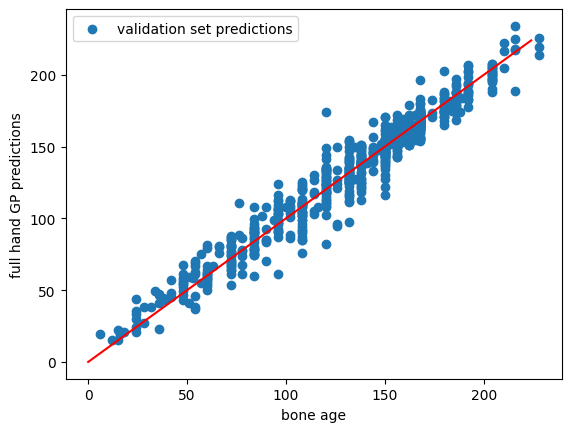
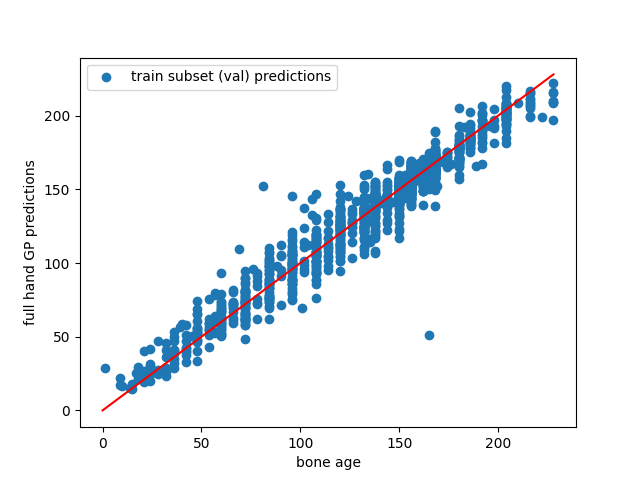
Inception working now!

diff --git a/fullhand_training_lghtng.py b/fullhand_training_lghtng.py
@@ -121,7 +121,8 @@ model = Inception()
 trainer = pl.Trainer(
     accelerator="gpu",
     devices=1,
-    max_epochs=3,
+    max_epochs=50,
+    reload_dataloaders_every_n_epochs=True,
     logger=pl.loggers.TensorBoardLogger("lightning_logs/", name="regression"),
     log_every_n_steps=25,
     fast_dev_run=False,
@@ -147,7 +148,7 @@ for _, labels in val_dataset:
     val_labels.append(labels)
 val_array = np.array(val_labels, dtype=np.float32)
 plt.scatter(val_array, predictions, label="train subset (val) predictions")
-plt.plot([0, 224], [0, 224], color='red')
+plt.plot([0, 228], [0, 228], color='red')
 plt.xlabel('bone age')
 plt.ylabel('full hand GP predictions')
 plt.legend()

diff --git a/fullhand_model_inception_lghtng.py b/fullhand_model_inception_lghtng.py
@@ -107,7 +107,7 @@ class Inception(pl.LightningModule):
         )
 
         scheduler = torch.optim.lr_scheduler.ReduceLROnPlateau(
-            optimizer, mode="min", factor=0.5, patience=3, verbose=True, threshold=0.001
+            optimizer, mode="min", factor=0.5, patience=50, verbose=True, threshold=0.001
         )
         return {
             "optimizer": optimizer,
